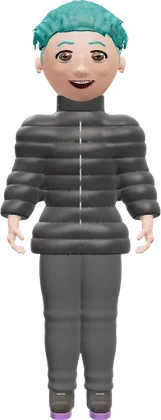
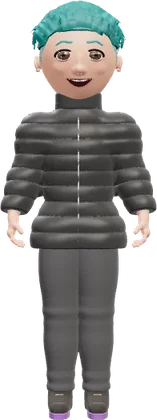
Body: longer legs
- Thigh bones are stretched 7% along their length (thigh, shin, trousers,
  skirts all follow), feet scaled back to normal, and the body lifted so
  the soles stay on the ground; sitting compensates for the bent leg
- Camera frames for thumbnails, the studio and captures re-aimed for the
  taller figure (no cropped buns / mohawks / afros)
- Starter / welcome pictures re-rendered; thumbnails v28

Claude-Session: https://claude.ai/code/session_011n7UBMF7siA6WHFHfiWuWV

diff --git a/src/features/avatar/editor/thumbs.tsx b/src/features/avatar/editor/thumbs.tsx
@@ -14,21 +14,22 @@ import { DEFAULT_LOOK, type Look } from '../look/config';
 export type ThumbFrame = 'head' | 'face' | 'upper' | 'lower' | 'feet' | 'full' | 'fullroomy' | 'sticker' | 'seated' | 'bag' | 'dress';
 
 const SIZE = 192;
+// (framed for the longer-legged figure: the head sits ~0.06 higher)
 const CAMS: Record<ThumbFrame, { pos: [number, number, number]; target: [number, number, number]; fov: number }> = {
-  head: { pos: [0.35, 2.06, 1.55], target: [0, 1.99, 0], fov: 30 },
-  face: { pos: [0, 1.98, 0.95], target: [0, 1.94, 0], fov: 30 },
-  upper: { pos: [0, 1.6, 2.7], target: [0, 1.46, 0], fov: 30 },
+  head: { pos: [0.38, 2.16, 1.78], target: [0, 2.08, 0], fov: 30 },
+  face: { pos: [0, 2.04, 0.95], target: [0, 2.0, 0], fov: 30 },
+  upper: { pos: [0, 1.66, 2.7], target: [0, 1.52, 0], fov: 30 },
   lower: { pos: [0, 0.66, 2.9], target: [0, 0.66, 0], fov: 30 },
   feet: { pos: [0.55, 0.3, 1.05], target: [0, 0.12, 0.05], fov: 30 },
   /** Three-quarter view of the bag side (bags hang at the avatar's right hip; backpacks sit behind). */
   bag: { pos: [-1.75, 1.15, 0.75], target: [-0.36, 1.0, -0.04], fov: 30 },
   /** Shoulders to shins, so prints on dresses read clearly. */
   dress: { pos: [0, 1.12, 3.5], target: [0, 1.06, 0], fov: 30 },
-  full: { pos: [0, 1.26, 4.8], target: [0, 1.2, 0], fov: 30 },
+  full: { pos: [0, 1.29, 4.9], target: [0, 1.23, 0], fov: 30 },
   // room above the head for big hair and raised arms (welcome / starter art)
   fullroomy: { pos: [0, 1.34, 5.7], target: [0, 1.3, 0], fov: 30 },
   /** Knees up, with head-room for raised arms (chat stickers). */
-  sticker: { pos: [0, 1.5, 3.9], target: [0, 1.45, 0], fov: 30 },
+  sticker: { pos: [0, 1.56, 3.9], target: [0, 1.51, 0], fov: 30 },
   seated: { pos: [0, 1.05, 3.6], target: [0, 1.0, 0], fov: 30 },
 };
 
@@ -54,7 +55,7 @@ const cache = new Map<string, string>();
  * opens instantly on later visits. Bump the version whenever the renderer
  * changes how variants look.
  */
-const STORE = 'snv-thumbs-v27';
+const STORE = 'snv-thumbs-v28';
 const storeKey = (key: string) => `/__thumb/${encodeURIComponent(key)}`;
 async function fromStore(key: string): Promise<string | null> {
   try {

diff --git a/src/features/avatar/render/SculptBody.tsx b/src/features/avatar/render/SculptBody.tsx
@@ -9,6 +9,8 @@ import { useSculpt } from '../sculpt3d/async';
 import { SkinMat, nailTone } from './Face';
 
 const I4 = new THREE.Matrix4();
+/** Leg length factor (hip to ankle), a slimmer, taller stylised-adult silhouette. */
+export const LEG_STRETCH = 1.07;
 
 /** A mesh skinned to the figure's skeleton (bound once, in the rest pose). */
 export function Skinned({ geometry, skeleton, children, shadow = true }: { geometry: THREE.BufferGeometry; skeleton: THREE.Skeleton; children: ReactNode; shadow?: boolean }) {
@@ -81,6 +83,7 @@ export function SculptBody({ look, body, pose, animate, head, clothes, skirt = 0
     return sp;
   }, [pose, skirt]);
   const { bones } = rig;
+  const legLift = (J.pos[B.thighL][1] - J.pos[B.footL][1]) * (LEG_STRETCH - 1);
 
   function apply(t: number) {
     const s = (f: number, a: number, ph = 0) => Math.sin(t * f + ph) * a;
@@ -100,7 +103,11 @@ export function SculptBody({ look, body, pose, animate, head, clothes, skirt = 0
     // feet stay level when sitting
     bones[B.footL].rotation.x = bones[B.footR].rotation.x = pose === 'sitting' ? 0 : 0;
     const pel = bones[B.pelvis];
-    pel.position.y = J.pos[B.pelvis][1] + (pose === 'dancing' ? Math.abs(s(5, 0.05)) : 0) + (pose === 'walking' ? Math.abs(s(8, 0.02)) : 0) + (pose === 'sitting' ? -0.4 : 0);
+    // longer legs: each thigh bone is stretched along its length (thigh + shin skin and trousers stretch
+    // with it), the feet are scaled back to normal height, and the body rises so the soles stay on the ground
+    for (const b of [B.thighL, B.thighR]) bones[b].scale.set(1, LEG_STRETCH, 1);
+    for (const b of [B.footL, B.footR]) bones[b].scale.set(1, 1 / LEG_STRETCH, 1);
+    pel.position.y = J.pos[B.pelvis][1] + legLift * (pose === 'sitting' ? 0.52 : 1) + (pose === 'dancing' ? Math.abs(s(5, 0.05)) : 0) + (pose === 'walking' ? Math.abs(s(8, 0.02)) : 0) + (pose === 'sitting' ? -0.4 : 0);
     pel.rotation.set(0, pose === 'dancing' ? s(1.25, 0.25) : 0, pose === 'dancing' ? s(2.5, 0.07) : 0);
     bones[B.chest].rotation.set(s(1.5, 0.008), 0, 0);
     const hd = bones[B.head];

diff --git a/src/features/avatar/AvatarStage.tsx b/src/features/avatar/AvatarStage.tsx
@@ -14,8 +14,8 @@ export interface AvatarStageHandle {
 export type Framing = 'full' | 'head' | 'upper' | 'feet';
 const FRAMES: Record<Framing, { pos: [number, number, number]; target: [number, number, number] }> = {
   full: { pos: [0, 1.42, 5.6], target: [0, 1.26, 0] },
-  head: { pos: [0, 2.12, 2.3], target: [0, 2.05, 0] },
-  upper: { pos: [0, 1.95, 3.7], target: [0, 1.78, 0] },
+  head: { pos: [0, 2.18, 2.3], target: [0, 2.11, 0] },
+  upper: { pos: [0, 2.0, 3.7], target: [0, 1.83, 0] },
   feet: { pos: [0, 0.55, 2.6], target: [0, 0.35, 0] },
 };
 
@@ -69,8 +69,8 @@ function Capturer({ apiRef }: { apiRef: React.MutableRefObject<AvatarStageHandle
     const prev = { pos: cam.position.clone(), q: cam.quaternion.clone() };
     if (framing === 'bust') {
       // face close-up for the round profile picture
-      cam.position.set(0, 2.1, 1.75);
-      cam.lookAt(0, 2.03, 0);
+      cam.position.set(0, 2.16, 1.75);
+      cam.lookAt(0, 2.09, 0);
     } else {
       // whole figure, head to toe
       cam.position.set(0, 1.25, 5.6);
